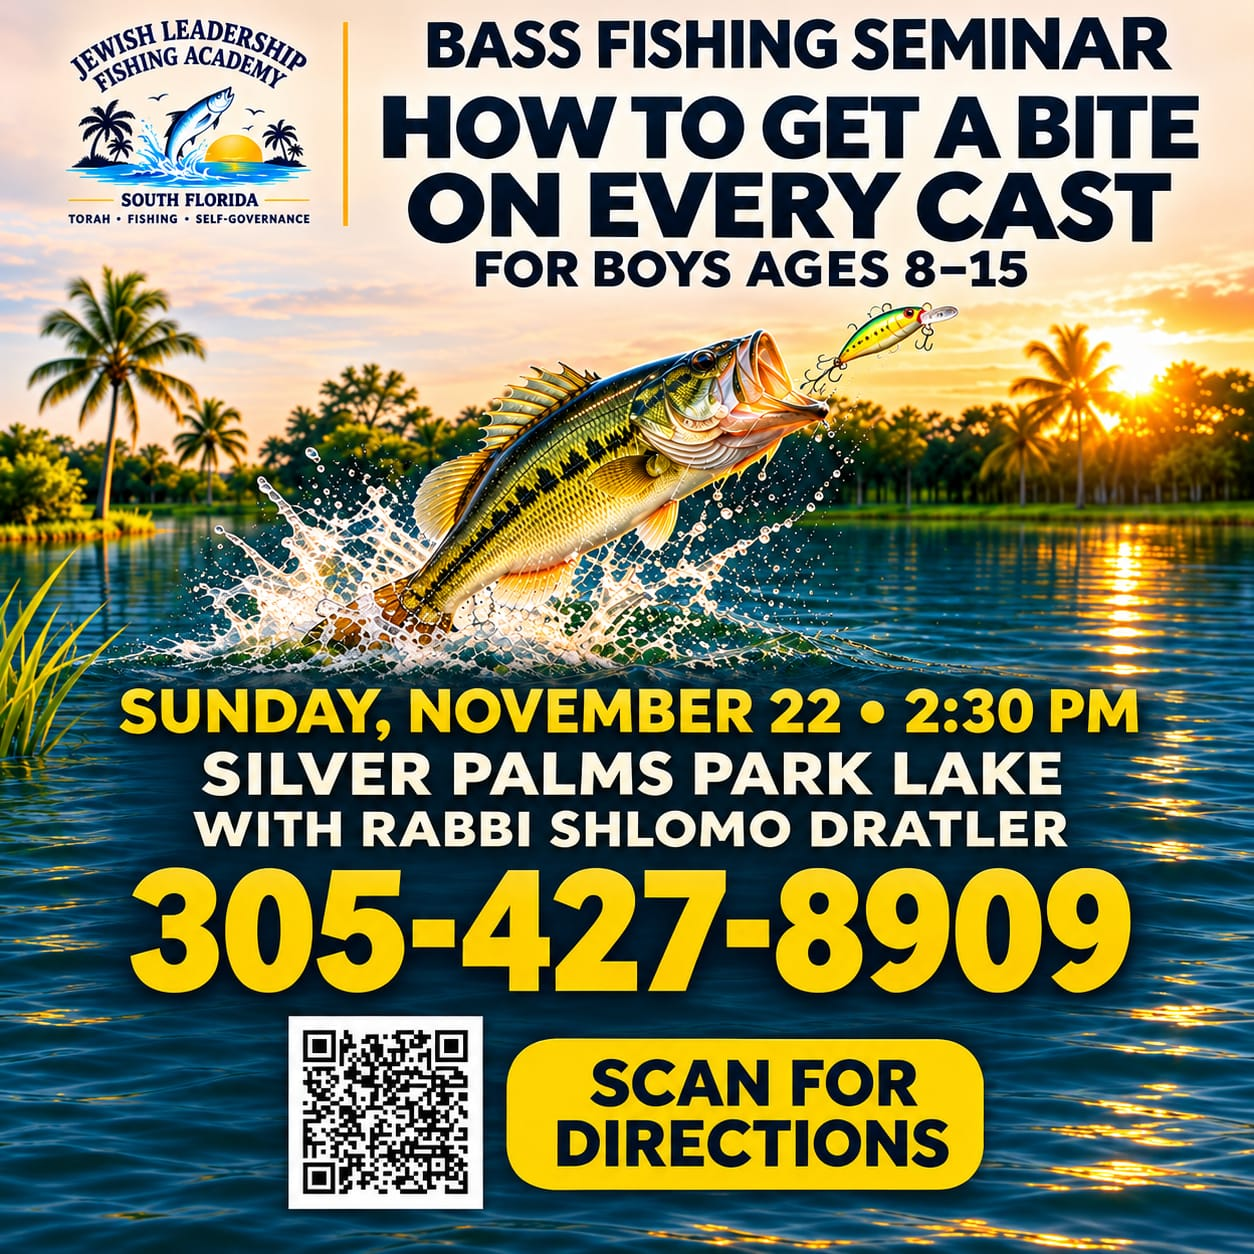
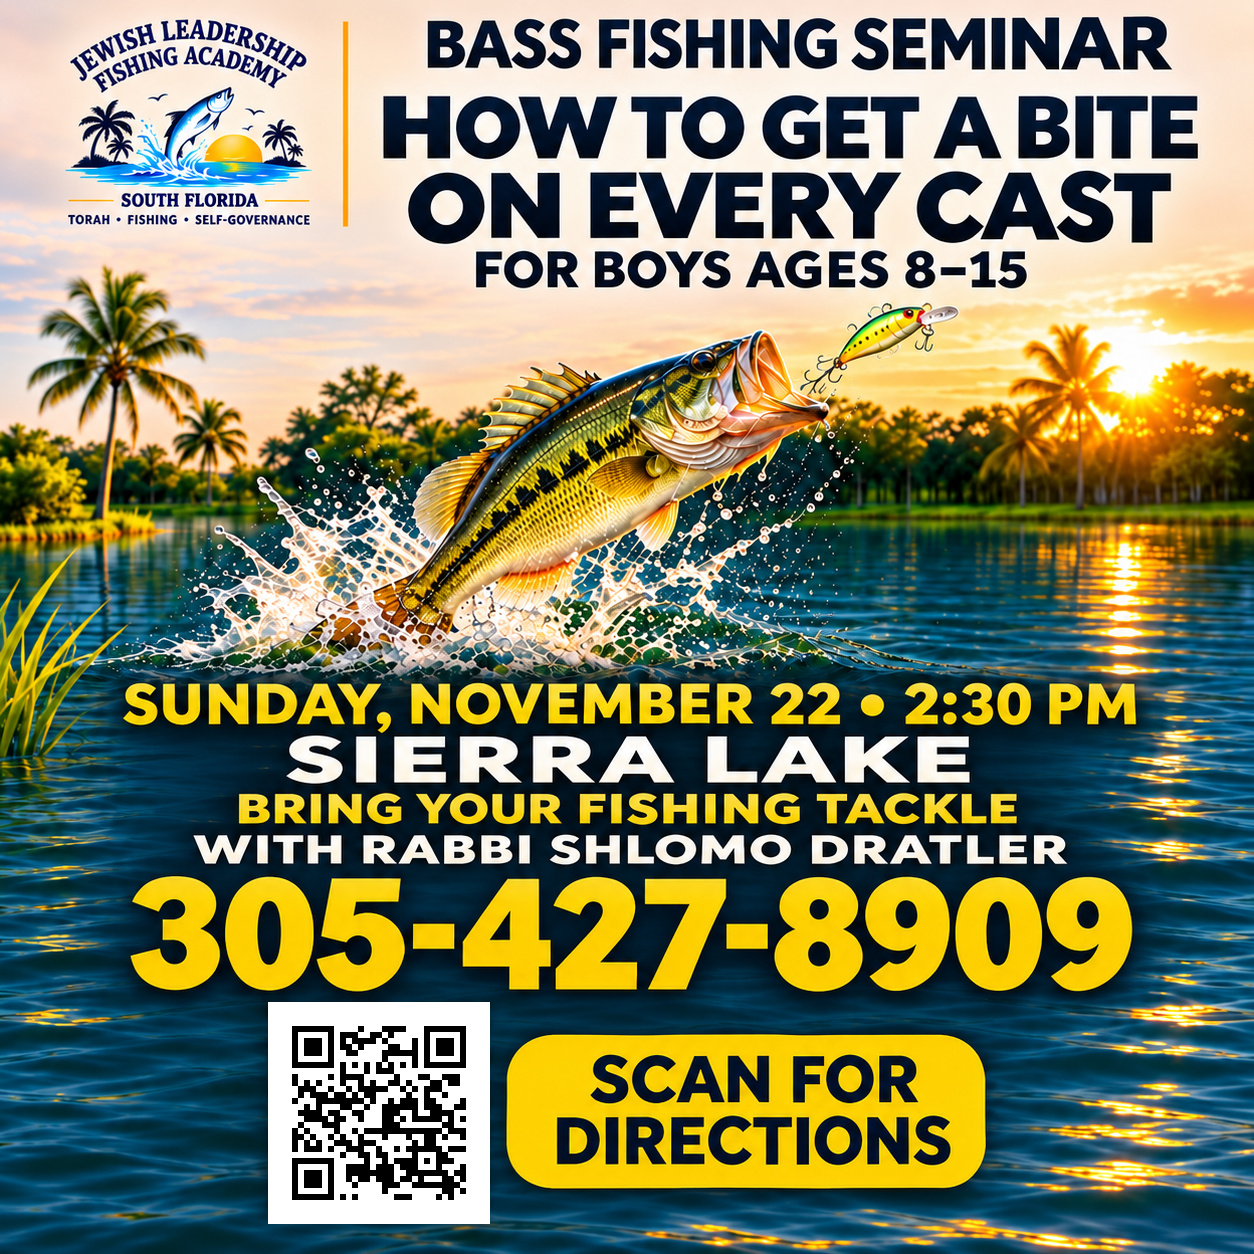
Correct seminar venue to Sierra Lake and add tackle reminder

diff --git a/apps/life-skills/src/app/[locale]/florida/seminar/page.tsx b/apps/life-skills/src/app/[locale]/florida/seminar/page.tsx
@@ -32,6 +32,7 @@ export default async function SeminarPage({ params }: { params: Promise<{ locale
           <p><span>{past ? "Past seminar" : "When"}</span><time dateTime={seminar.startsAt}>{seminar.dateLabel}<br /><strong>{seminar.timeLabel}</strong></time></p>
           <p><span>Where</span><strong>{seminar.place}</strong></p>
         </div>
+        <p className={styles.reminder}>{seminar.reminder}</p>
         <div className={styles.actions}>
           <a className={styles.primary} href={contactUrl(past)} target="_blank" rel="noopener noreferrer">WhatsApp Rabbi Shlomo <span aria-hidden="true">↗</span></a>
           <a className={styles.secondary} href={seminar.directions} target="_blank" rel="noopener noreferrer">Get directions <span aria-hidden="true">↗</span></a>
@@ -41,7 +42,7 @@ export default async function SeminarPage({ params }: { params: Promise<{ locale
       <figure className={styles.flyer}>
         <a href={seminar.flyer} target="_blank" rel="noopener noreferrer" aria-label="Open the full-size seminar flyer">
           {/* eslint-disable-next-line @next/next/no-img-element -- preserve original flyer bytes and proportions */}
-          <img src={seminar.flyer} alt={`${seminar.title}: ${seminar.hook}. ${seminar.audience}. ${seminar.shareDate}, ${seminar.place}. ${seminar.host}, ${seminar.phone}.`} width="1254" height="1254" />
+          <img src={seminar.flyer} alt={`${seminar.title}: ${seminar.hook}. ${seminar.audience}. ${seminar.shareDate}, ${seminar.place}. ${seminar.reminder} ${seminar.host}, ${seminar.phone}. Scan the QR for seminar details.`} width="1254" height="1254" />
         </a>
         <figcaption><a href={seminar.flyer} target="_blank" rel="noopener noreferrer">View full-size flyer</a><a href={seminar.flyer} download="Bass-Fishing-Seminar-November-22.jpg">Download flyer</a></figcaption>
       </figure>

diff --git a/apps/life-skills/src/features/seminar/config.ts b/apps/life-skills/src/features/seminar/config.ts
@@ -10,7 +10,8 @@ export const seminar = Object.freeze({
   shareDate: "Sunday, November 22 at 2:30 PM",
   timeLabel: "2:30 PM · Eastern Time",
   timeZone: "America/New_York",
-  place: "Silver Palms Park Lake, Boca Raton",
+  place: "Sierra Lake, Boca Raton",
+  reminder: "Bring your fishing tackle.",
   host: "Rabbi Shlomo Dratler",
   phone: "305-427-8909",
   phoneDigits: "13054278909",
@@ -29,9 +30,9 @@ export function seminarHasPassed(now = new Date()): boolean {
 export function seminarInvitation(past = false): string {
   return past
     ? `Interested in the next Bass Fishing Seminar with Rabbi Shlomo? Ask for details: ${seminar.publicUrl}`
-    : `Join ${seminar.host} for ${seminar.title}! ${seminar.audience}. ${seminar.shareDate}, ${seminar.place}. Details and directions: ${seminar.publicUrl}`;
+    : `Join ${seminar.host} for ${seminar.title}! ${seminar.audience}. ${seminar.shareDate}, ${seminar.place}. ${seminar.reminder} Details and directions: ${seminar.publicUrl}`;
 }
-export const seminarDescription = `${seminar.title} with ${seminar.host}. ${seminar.audience}. ${seminar.dateShort}, ${seminar.timeLabel}, ${seminar.place}. Flyer, directions and WhatsApp.`;
+export const seminarDescription = `${seminar.title} with ${seminar.host}. ${seminar.audience}. ${seminar.dateShort}, ${seminar.timeLabel}, ${seminar.place}. ${seminar.reminder} Flyer, directions and WhatsApp.`;
 export function recipientDigits(countryCode: string, number: string): string | null {
   if (!/^\+?[1-9]\d{0,3}$/.test(countryCode.trim()) || !/^[\d\s().-]+$/.test(number)) return null;
   const local = number.replace(/\D/g, "");

diff --git a/apps/life-skills/src/features/seminar/seminar.module.css b/apps/life-skills/src/features/seminar/seminar.module.css
@@ -14,6 +14,7 @@
 .details p { display:grid; grid-template-columns:3.3em minmax(0,1fr); gap:14px; margin:0; font-size:.94rem; line-height:1.5; }
 .details p>span { color:#586c7c; font-size:.78rem; padding-top:3px; }
 .details strong { font-weight:650; }
+.reminder { margin:0 0 18px; font-size:.95rem; line-height:1.5; font-weight:700; color:#805910; }
 .actions { display:grid; gap:10px; }
 .primary,.secondary,.qrButton { display:flex; align-items:center; justify-content:center; gap:12px; width:100%; min-height:50px; padding:12px 14px; border:1px solid #c8d4dc; border-radius:10px; font:inherit; font-size:.93rem; line-height:1.4; font-weight:700; text-decoration:none; text-align:center; cursor:pointer; background:#fff; color:#102b46; }
 .primary { background:#102f4c; border-color:#102f4c; color:#fff; }

diff --git a/apps/life-skills/src/features/seminar/sharing.tsx b/apps/life-skills/src/features/seminar/sharing.tsx
@@ -67,7 +67,7 @@ export function SeminarSharing({ past }: { past: boolean }) {
       {/* eslint-disable-next-line @next/next/no-img-element -- deterministic, separately decoded QR export */}
       <img className={styles.qr} src={seminar.qrPng} alt={`QR code for ${seminar.publicUrl}`} width="512" height="512" />
       <strong className={styles.qrAddress}>bneineviimacademy.org/fish</strong>
-      <p className={styles.small}>This QR opens the seminar page.<br />The QR on the flyer opens directions.</p>
+      <p className={styles.small}>This QR and the QR on the flyer open the seminar page.<br />Choose Get directions on the page for the lake location.</p>
       <a className={styles.secondary} href={seminar.qrPng} download="Fishing-Seminar-QR.png">Download QR PNG</a>
     </dialog>
   </section>;

diff --git a/evidence/seminar-20261122/sierra-correction.md b/evidence/seminar-20261122/sierra-correction.md
@@ -1,0 +1,31 @@
+# Sierra Lake seminar correction
+
+Task: `JLFA-SEMINAR-MOBILE-DESTINATION-20261122-01 / CORRECTION-02`.
+
+Current source: [Fishing Website & Acquisition Brief](https://docs.google.com/document/d/1jw0shI2DSfUH9RpJc2WdeIqXwO1OYOUEiwuv3mdNngU/edit). The source writer verified the adopted correction on November 22, 2026: `Sierra Lake, Boca Raton` and `Bring your fishing tackle.`. The original map coordinates, event date/time, ages and contact remain unchanged. This is a scoped factual/copy correction, not an earlier design violation.
+
+## Baseline and ownership
+
+The clean isolated checkout starts at `3cd41cb1b097d856fcc64af8b76da34e53d9cfb7`, verified as the latest successful Fishing Railway application deployment. Current open PRs were inspected; no overlapping seminar implementation was observed. Historical Windows worktrees and cross-host claims are inaccessible, so no cross-host lease or ownership transfer is claimed. Existing backend, billing, CRM and shared-header PRs remain untouched. Source-document reconciliation stays with its current writer.
+
+## Scoped brief
+
+Preserve the existing mobile page's single column, navy/white/gold styling, type hierarchy and working actions. Replace the old place label with Sierra Lake. Add one legible tackle reminder between the event details and actions, including the same fact in invitation text, metadata and accessible flyer text. Keep the flyer proportional and uncropped. Update the QR explanation so both displayed codes are described as opening the seminar page; directions remain a separate button on that page.
+
+## Asset identity
+
+The corrected flyer was visually inspected by the coordinating agent. Both final JPG and PNG were decoded with zxing-cpp to `https://bneineviimacademy.org/fish`. Exact JPG adopted into the existing public filename:
+
+- `apps/life-skills/public/seminar/bass-fishing-seminar-20261122.jpg`
+- 1254 × 1254 pixels; 927,263 bytes
[1 lines of base64/hex data omitted]
+
+The separate PNG/SVG QR exports remain byte-identical to the verified release; the permanent destination is unchanged. No new gateway route, public asset path, credentials, customer record, send, billing or database change is required.
+
+## Verification checkpoint
+
+- Existing seminar unit tests: 3 passed.
+- Scoped ESLint on the changed TypeScript/TSX: passed.
+- Production build, actual mobile render inspection, independent exact-diff review, required protected CI and deployed readback: pending at this checkpoint.
+
+Deployment must preserve the existing inquiry acknowledgment admission by using its normal source-only compatibility rebind. Do not deploy a new source pin while leaving the old commit-bound policy behind, and do not alter or invent the existing mail authority to make a release pass. This candidate is not claimed deployed or live.
